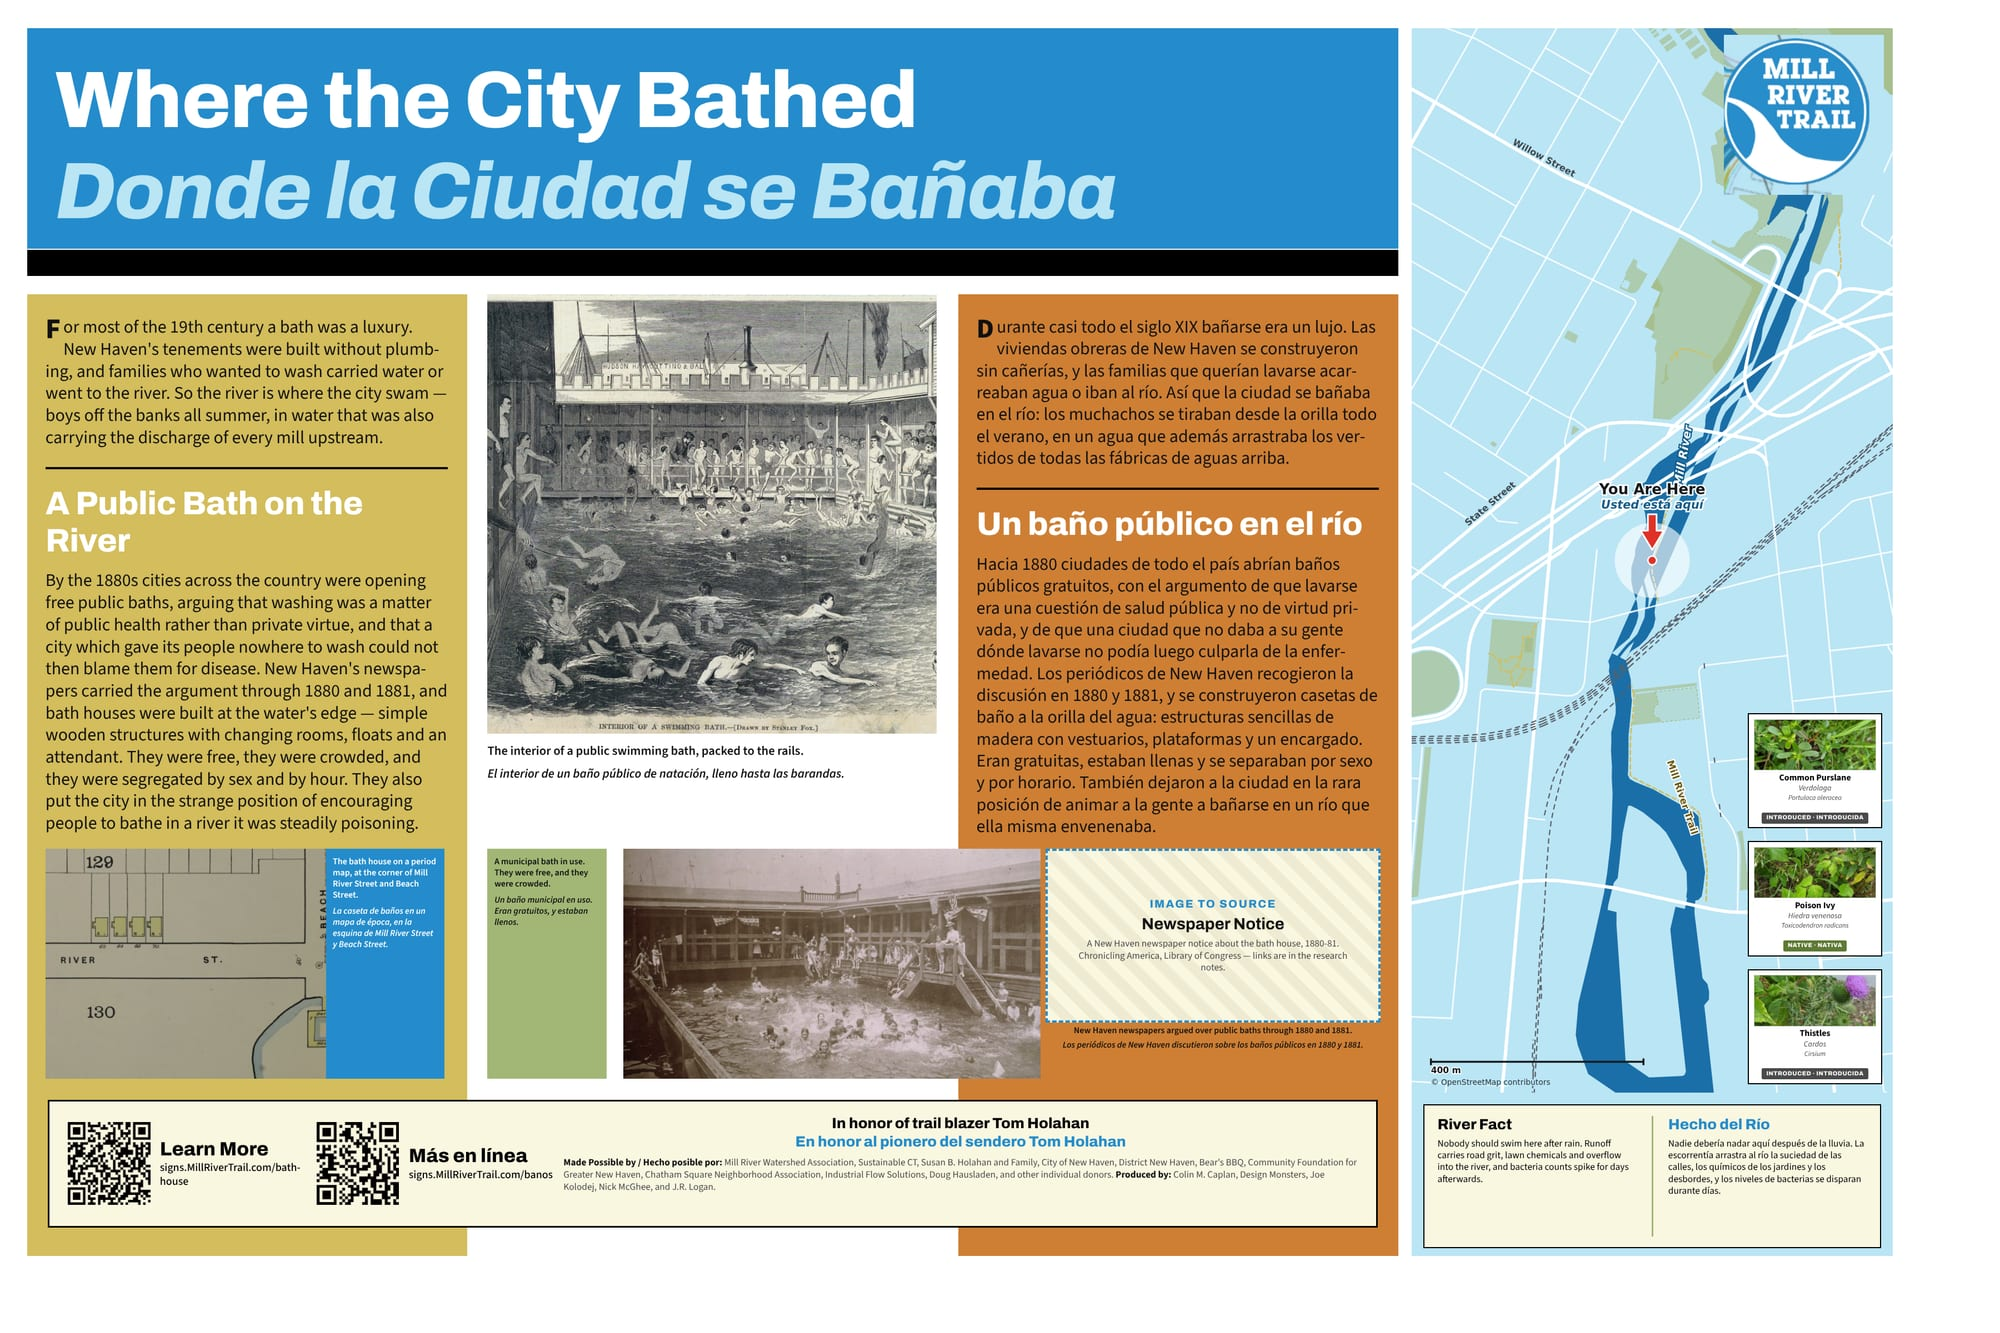
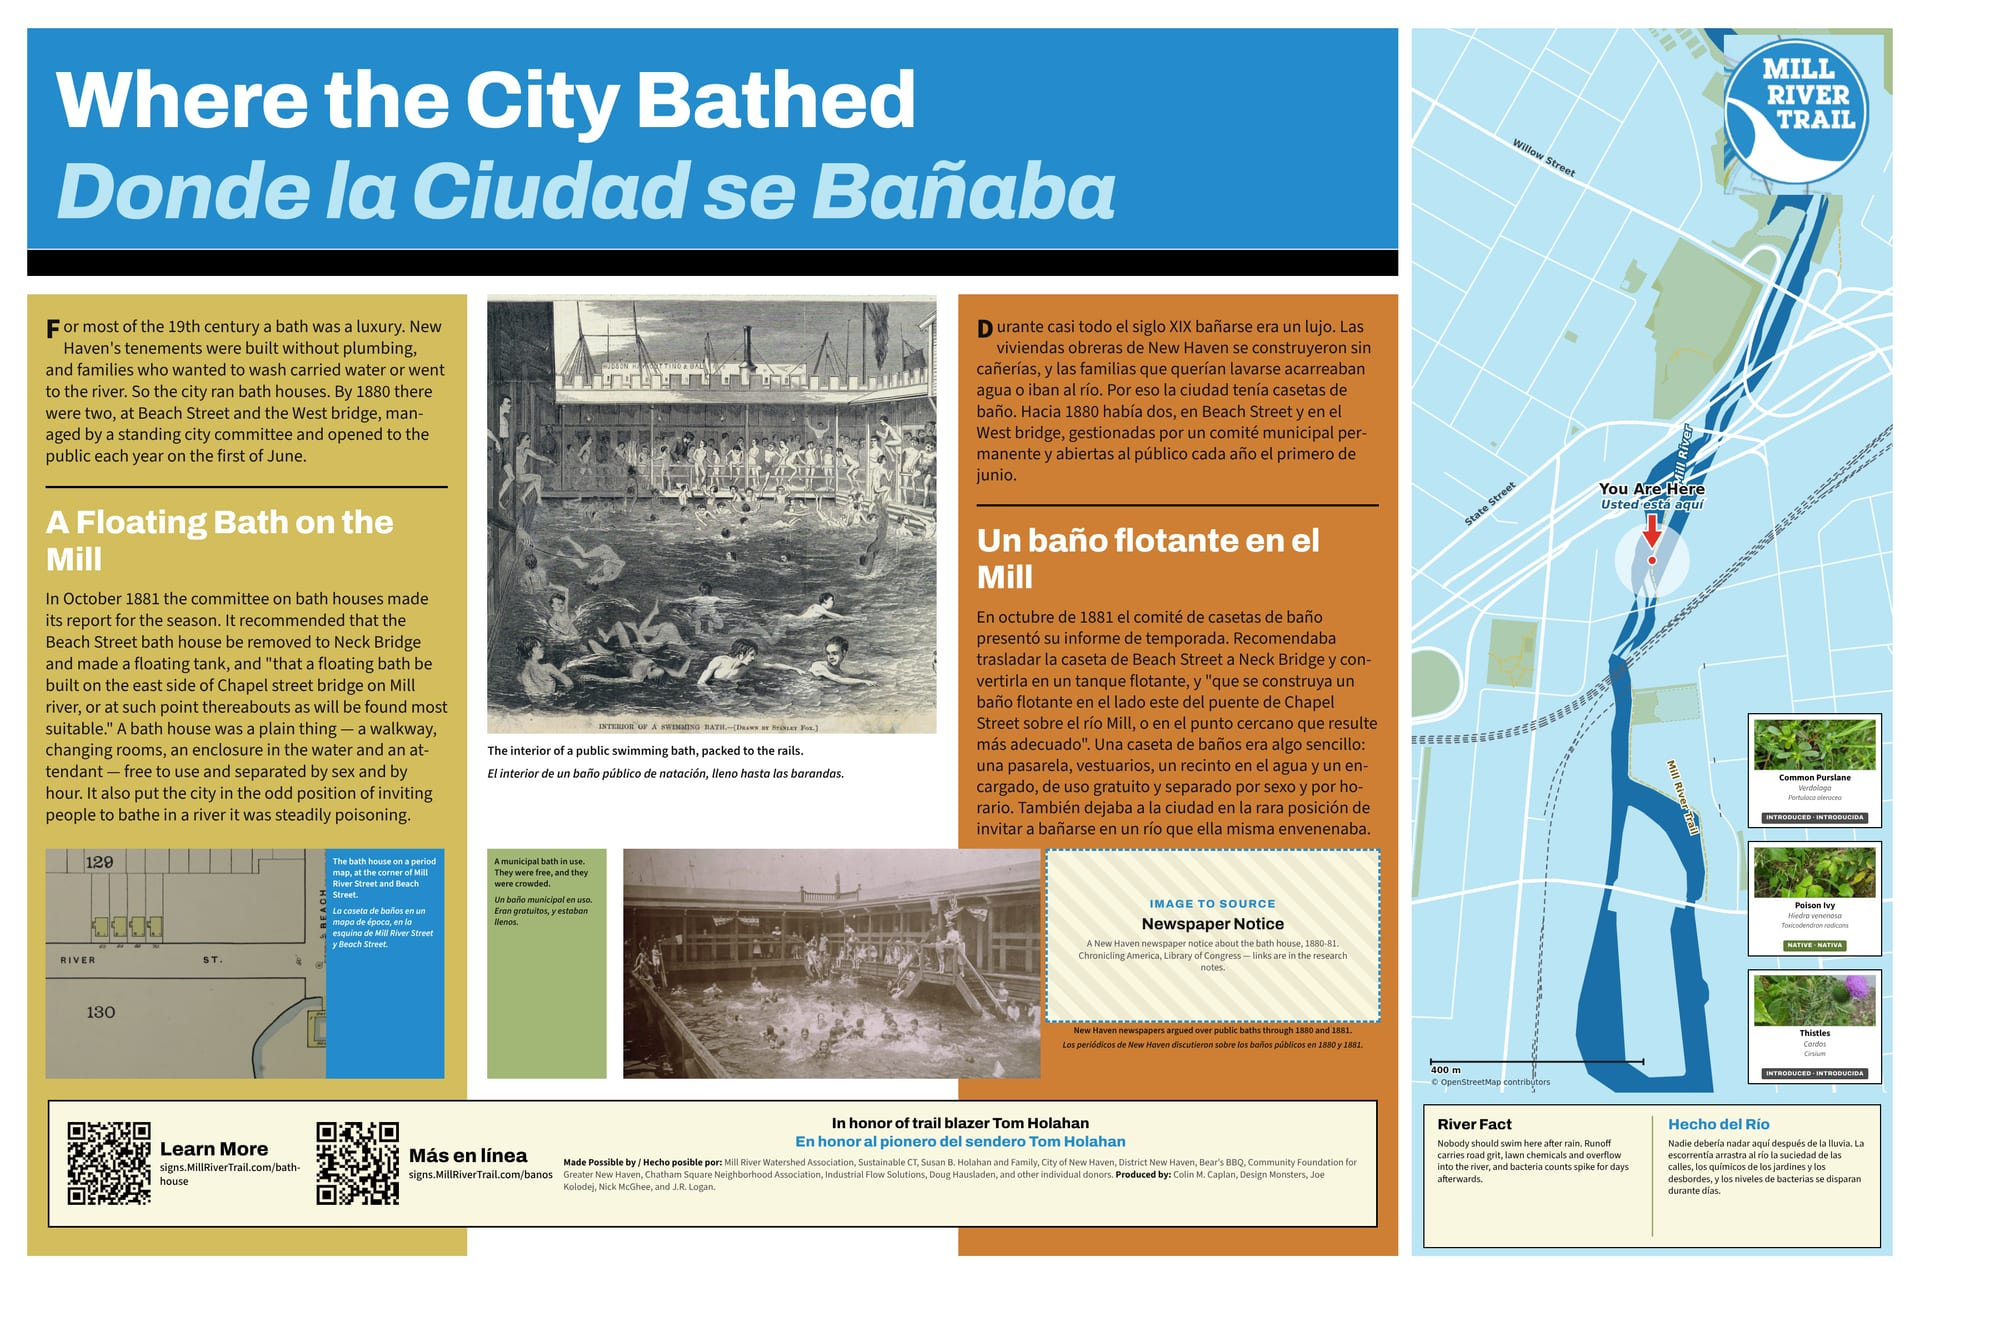
Show the newspaper clippings on the bath house page, and rewrite it from them
The Library of Congress blocks direct fetches of Chronicling America page
images, but its item API exposes the IIIF image service and the ALTO OCR XML,
which are not blocked. That gave the text of both bath house reports and
coordinates precise enough to crop the clippings out of the page scans. Both now
appear on the page beside the passage that quotes them.

What this establishes rather than assumes: New Haven had two municipal bath
houses by 1880, at Beach Street and the West bridge; a standing committee
managed them and reported each season; they opened on the first of June; and in
the autumn of 1881 the committee recommended a floating bath on the east side of
the Chapel Street bridge on the Mill River.

That last is the Mill River bath house in the city's own words, and it raises a
question about siting: the sign's KMZ point is below Humphrey Street, while the
documented locations are the Chapel Street bridge and Neck Bridge at State
Street. Flagged rather than moved — that is a decision for the project.

The method generalises, and is written up in docs/DECISIONS.md. The Fenian Ram
newspaper pages from 1881, 1885 and 1887 are in the notes and reachable the same
way.

Changed region(s): [[0.465, 0.2153, 0.682, 0.6459], [0.0, 0.2153, 0.217, 0.6459]]

diff --git a/docs/DECISIONS.md b/docs/DECISIONS.md
@@ -434,6 +434,56 @@ Not covered anywhere yet. The notes list Lake Whitney recreational use and the
 ice house among things to learn more about. This is a good candidate for a
 future sign.
 
+
+## Sign 5 is now sourced from the newspapers
+
+The Library of Congress blocks direct fetches of Chronicling America page
+images, but its item API exposes the underlying IIIF service and the ALTO OCR
+XML, which are not blocked. That gave both the text of the two bath house
+reports and coordinates precise enough to crop the clippings out of the page
+scans. Both are on the sign's page.
+
+**New Haven Morning Journal and Courier, 25 May 1880, "The Bath Houses":** the
+bath house committee had decided a deep water tank at the Beach Street bath
+house was impracticable that season — to build one they would have to "move the
+present bath house further out into the stream and then fill in Beach street out
+to it," and neither the appropriation nor the lateness of the season allowed it.
+A deep water tank at the West bridge bath house was still under consideration.
+"It is thought that both bath houses will be opened to the public on the first of
+June."
+
+**The same paper, 4 October 1881,** reporting the committee's account of the
+season: it recommended the Beach Street bath house be removed to Neck Bridge and
+made a floating tank, and "that a floating bath be built on the east side of
+Chapel street bridge on Mill river, or at such point thereabouts as will be
+found most suitable."
+
+So the following are now established rather than assumed: New Haven had **two**
+municipal bath houses by 1880, at Beach Street and the West bridge; a standing
+**committee on bath houses** managed them and reported each season; they opened
+to the public on **1 June**; and a **floating bath on the Mill River at the
+Chapel Street bridge** was formally recommended in the autumn of 1881.
+
+### Two things this raises
+
+- **The sign may be in the wrong place.** Its KMZ point is below Humphrey Street,
+  but the documented Mill River locations are the **Chapel Street bridge** and
+  **Neck Bridge** at State Street. The Chapel Street bridge is beside Criscuolo
+  Park, which is sign 8's ground. Worth deciding whether sign 5 moves, or whether
+  its copy simply describes both sites.
+- **Still open:** whether the Chapel Street floating bath was ever built, how
+  long any of them lasted, and whether they were free. The reports read as
+  though they were, but they do not say so.
+
+### The method is reusable
+
+`https://www.loc.gov/item/{lccn}/{date}/ed-1/?fo=json` returns, per page, the
+ALTO XML and the IIIF image base. Search the ALTO for a phrase, take the
+TextLine coordinates, scale by the ratio of the jp2 pixel size to the ALTO page
+size, and request that region from IIIF. That is how to get any other clipping
+this project wants — the Fenian Ram pages from 1881, 1885 and 1887 are all in
+the notes and all reachable this way.
+
 ## Sign inventory
 
 Thirteen signs. All twelve KMZ locations plus William Lanson. Signs 1-4 have
